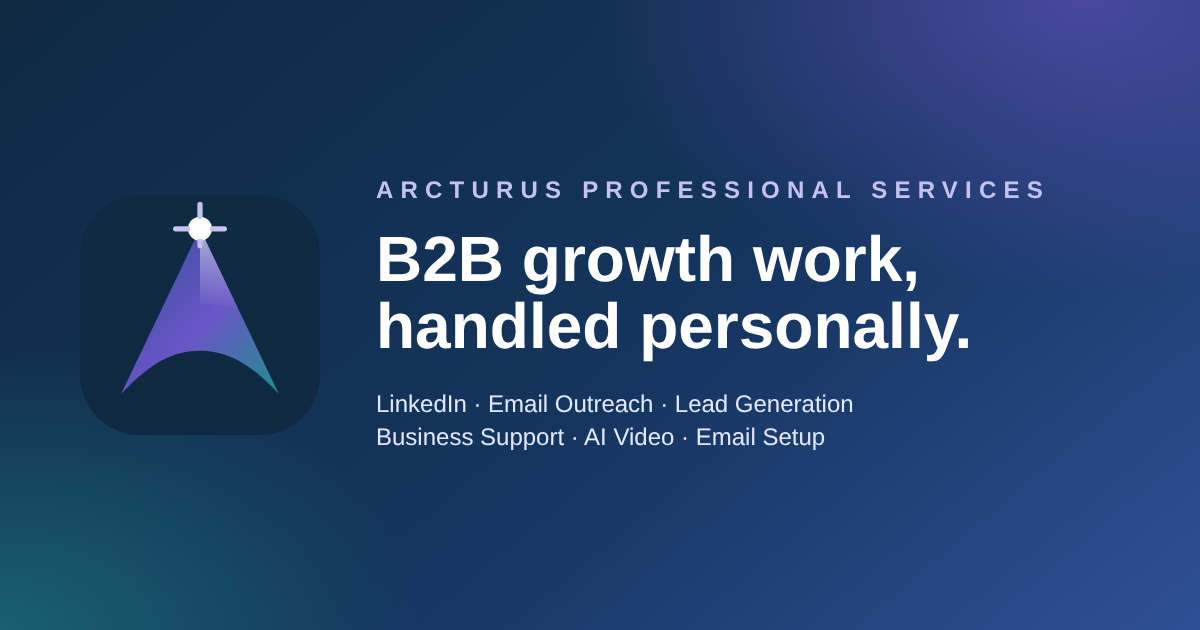
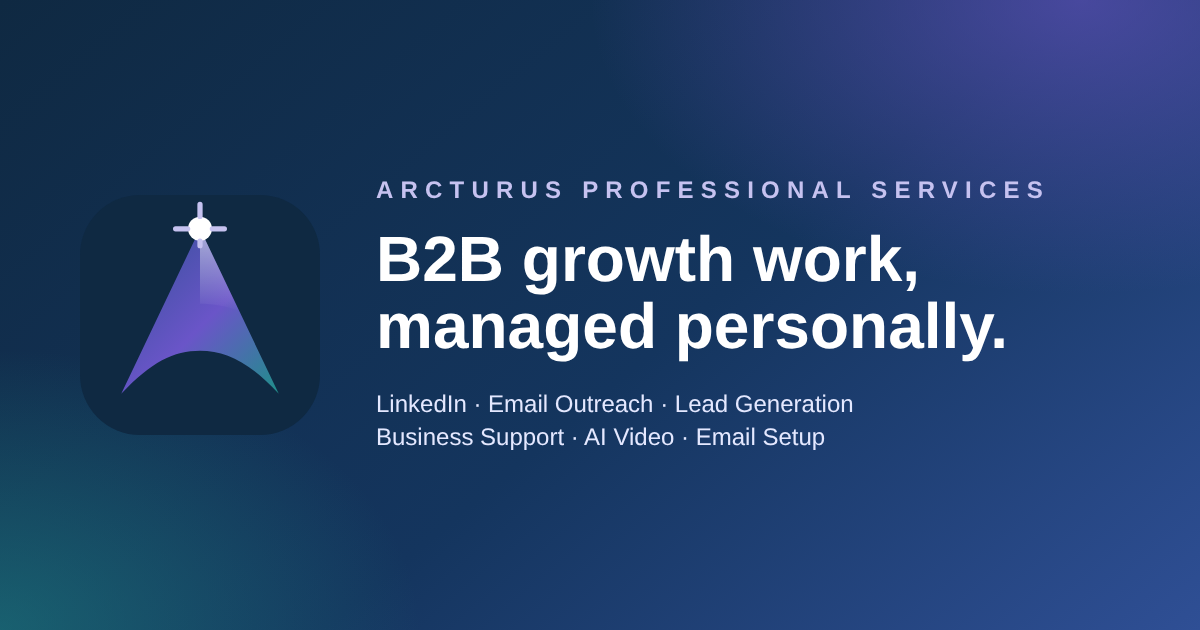
Remove portrait photo; footer ARCTURUS always fits (SVG), up/down scroll buttons, prefilled WhatsApp message, 'handled' -> 'managed', Hemicube header nav and service tabs
Claude-Session: https://claude.ai/code/session_014hs6KdVdhKz72U3njbSNzr

Changed region(s): [[0.3083, 0.4825, 0.8325, 0.573]]

diff --git a/frontend/src/pages/About.tsx b/frontend/src/pages/About.tsx
@@ -1,5 +1,5 @@
 import { ArrowUpRight, Check, FileText, LockKeyhole, Sparkles, X } from "lucide-react";
-import PortraitCard from "@/components/PortraitCard";
+import HeroShowcase from "@/components/HeroShowcase";
 import { Link } from "react-router-dom";
 import PageFrame from "@/components/PageFrame";
 import Seo from "@/components/Seo";
@@ -8,7 +8,7 @@ import AmbientScene from "@/components/AmbientScene";
 
 export default function About() {
   return <PageFrame><Seo path="/about" />
-    <section className="relative overflow-hidden border-b border-[#ddd8cd] about-hero-rich" data-testid="about-hero"><AmbientScene type="architecture" className="about-ambient-scene" /><div className="absolute right-[-7rem] top-12 size-80 rounded-full border border-[#4263aa]/20" aria-hidden="true" /><div className="mx-auto grid max-w-7xl gap-12 px-5 py-16 sm:px-8 sm:py-24 lg:grid-cols-[1.18fr_0.82fr] lg:items-end lg:gap-20 lg:px-10 lg:py-28"><div className="relative z-10 min-w-0"><p className="font-mono text-[10px] uppercase tracking-[0.2em] text-[#4263aa]" data-testid="about-eyebrow">Independent, direct, documented</p><h1 className="mt-5 break-words font-serif text-[2.4rem] leading-[1.08] text-[#0f172a] sm:text-6xl lg:text-7xl" data-testid="about-heading">About Khushboo Tomar, B2B outreach freelancer</h1><div className="mt-8 max-w-3xl space-y-5 text-lg leading-8 text-[#475569]" data-testid="about-intro"><p>I&apos;m Khushboo Tomar, an independent freelancer based in New Delhi. I run LinkedIn management, B2B email outreach and lead generation for businesses in Ireland, the UK and across Europe.</p><p>I work alone, so you always deal with the person doing the work. No account managers, no hand-offs, no outsourcing of core tasks.</p></div></div><div className="relative z-10" data-testid="about-personal-panel"><PortraitCard /></div></div></section>
+    <section className="relative overflow-hidden border-b border-[#ddd8cd] about-hero-rich" data-testid="about-hero"><AmbientScene type="architecture" className="about-ambient-scene" /><div className="absolute right-[-7rem] top-12 size-80 rounded-full border border-[#4263aa]/20" aria-hidden="true" /><div className="mx-auto grid max-w-7xl gap-12 px-5 py-16 sm:px-8 sm:py-24 lg:grid-cols-[1.18fr_0.82fr] lg:items-end lg:gap-20 lg:px-10 lg:py-28"><div className="relative z-10 min-w-0"><p className="font-mono text-[10px] uppercase tracking-[0.2em] text-[#4263aa]" data-testid="about-eyebrow">Independent, direct, documented</p><h1 className="mt-5 break-words font-serif text-[2.4rem] leading-[1.08] text-[#0f172a] sm:text-6xl lg:text-7xl" data-testid="about-heading">About Khushboo Tomar, B2B outreach freelancer</h1><div className="mt-8 max-w-3xl space-y-5 text-lg leading-8 text-[#475569]" data-testid="about-intro"><p>I&apos;m Khushboo Tomar, an independent freelancer based in New Delhi. I run LinkedIn management, B2B email outreach and lead generation for businesses in Ireland, the UK and across Europe.</p><p>I work alone, so you always deal with the person doing the work. No account managers, no hand-offs, no outsourcing of core tasks.</p></div></div><div className="relative z-10" data-testid="about-personal-panel"><HeroShowcase kicker="Solo freelancer" index="03 / 06" title="Khushboo Tomar" subtitle="Independent solo freelancer behind Arcturus Professional Services · New Delhi" slug="email-outreach" chips={["12+ years B2B","UK · Ireland · Europe","One point of contact"]} /></div></div></section>
 
     <section className="mx-auto max-w-7xl px-5 py-14 sm:px-8 lg:px-10" data-testid="about-facts">
       <div className="grid gap-3 sm:grid-cols-2 lg:grid-cols-4">
@@ -38,7 +38,7 @@ export default function About() {
   <ol className="arc-profile-timeline">
     <li><b>2014</b><span>Started in email marketing</span></li>
     <li><b>Growth</b><span>B2B outreach, lead research and sales support</span></li>
-    <li><b>Today</b><span>Six focused services, handled personally</span></li>
+    <li><b>Today</b><span>Six focused services, managed personally</span></li>
   </ol>
   <div className="arc-profile-stats"><div><b>12+</b><small>years experience</small></div><div><b>06</b><small>services</small></div><div><b>01</b><small>point of contact</small></div></div>
 </div><div className="self-center"><p className="font-mono text-[10px] uppercase tracking-[0.2em] text-[#765b9a]">Experience</p><h2 className="mt-4 font-serif text-4xl leading-tight text-[#0f172a] sm:text-5xl" data-testid="about-background-heading">My background</h2><p className="mt-7 text-base leading-8 text-[#475569]" data-testid="about-background-copy">I started my career in 2014 in email marketing and have spent over twelve years in B2B outreach, lead research, sales support and email deliverability. I&apos;ve worked closely with UK businesses, including recruitment firms, sales consultancies and financial services companies.</p><div className="mt-9 grid grid-cols-2 gap-3"><div className="rounded-2xl bg-[#ece8f4] p-5"><p className="font-highlight text-3xl text-[#0f2942]">12+</p><p className="mt-2 text-xs leading-5 text-[#64748b]">years of focused B2B experience</p></div><div className="rounded-2xl bg-[#dcebe8] p-5"><p className="font-highlight text-3xl text-[#0f2942]">2014</p><p className="mt-2 text-xs leading-5 text-[#64748b]">the year I started in email marketing</p></div></div></div></section>
@@ -67,7 +67,7 @@ export default function About() {
       </div>
     </section>
 
-    <section className="bg-[#f1eee6]" data-testid="about-services-section"><div className="mx-auto max-w-7xl px-5 py-20 sm:px-8 sm:py-24 lg:px-10"><div className="grid gap-10 lg:grid-cols-[0.58fr_1fr] lg:gap-20"><div><p className="font-mono text-[10px] uppercase tracking-[0.2em] text-[#4263aa]">Specialist support</p><h2 className="mt-4 font-serif text-4xl text-[#0f172a] sm:text-5xl" data-testid="about-services-heading">What I do</h2><p className="mt-6 max-w-sm text-base leading-7 text-[#64748b]">Six clearly priced services, each handled directly and documented in writing.</p></div><div className="grid gap-3 sm:grid-cols-2">{orderedServices.map((service, index) => <Link key={service.slug} to={`/services/${service.slug}`} className="premium-panel premium-lift rounded-2xl border border-[#ddd8cd] bg-[#fbf8f1] p-5" data-testid={`about-service-${service.slug}`}><div className="flex items-center justify-between gap-4"><span className="font-mono text-[9px] text-[#4263aa]">0{index + 1}</span><ArrowUpRight className="size-4 text-[#64748b]" /></div><h3 className="mt-5 font-serif text-xl text-[#0f2942]">{service.title}</h3><p className="mt-2 text-sm leading-6 text-[#64748b]">{["Profile, posting, outreach and nurture", "Setup, warm-up, campaigns and reporting", "Research, content, website support and admin", "Verified B2B contacts for your target market", "Branded short videos and reels", "Domain and DNS setup for better deliverability"][index]}</p></Link>)}</div></div></div></section>
+    <section className="bg-[#f1eee6]" data-testid="about-services-section"><div className="mx-auto max-w-7xl px-5 py-20 sm:px-8 sm:py-24 lg:px-10"><div className="grid gap-10 lg:grid-cols-[0.58fr_1fr] lg:gap-20"><div><p className="font-mono text-[10px] uppercase tracking-[0.2em] text-[#4263aa]">Specialist support</p><h2 className="mt-4 font-serif text-4xl text-[#0f172a] sm:text-5xl" data-testid="about-services-heading">What I do</h2><p className="mt-6 max-w-sm text-base leading-7 text-[#64748b]">Six clearly priced services, each managed directly and documented in writing.</p></div><div className="grid gap-3 sm:grid-cols-2">{orderedServices.map((service, index) => <Link key={service.slug} to={`/services/${service.slug}`} className="premium-panel premium-lift rounded-2xl border border-[#ddd8cd] bg-[#fbf8f1] p-5" data-testid={`about-service-${service.slug}`}><div className="flex items-center justify-between gap-4"><span className="font-mono text-[9px] text-[#4263aa]">0{index + 1}</span><ArrowUpRight className="size-4 text-[#64748b]" /></div><h3 className="mt-5 font-serif text-xl text-[#0f2942]">{service.title}</h3><p className="mt-2 text-sm leading-6 text-[#64748b]">{["Profile, posting, outreach and nurture", "Setup, warm-up, campaigns and reporting", "Research, content, website support and admin", "Verified B2B contacts for your target market", "Branded short videos and reels", "Domain and DNS setup for better deliverability"][index]}</p></Link>)}</div></div></div></section>
 
     <section className="mx-auto grid max-w-7xl gap-6 px-5 py-20 sm:px-8 sm:py-28 lg:grid-cols-2 lg:px-10" data-testid="about-work-compliance"><article className="rounded-[2rem] border border-[#d7dee9] bg-[#eef2ff] p-7 sm:p-10"><FileText className="size-7 text-[#4263aa]" /><h2 className="mt-6 font-serif text-4xl text-[#0f172a]" data-testid="about-work-heading">How I work</h2><p className="mt-6 text-base leading-8 text-[#475569]">Everything runs in writing, over WhatsApp, email or LinkedIn. I don&apos;t take calls. This keeps every decision, report and instruction documented, so nothing gets lost or misunderstood. You get clear written updates and regular reporting.</p><p className="mt-5 text-base leading-8 text-[#475569]">Payment is 50% in advance and 50% on delivery, and my pricing is flat and published on each service page.</p></article><article className="rounded-[2rem] border border-[#c9ddd8] bg-[#e8f2ef] p-7 sm:p-10"><LockKeyhole className="size-7 text-[#2c7a73]" /><h2 className="mt-6 font-serif text-4xl text-[#0f172a]" data-testid="about-compliance-heading">How I handle data and compliance</h2><p className="mt-6 text-base leading-8 text-[#475569]">I use a B2B-only, GDPR and PECR-aware approach. I work with business-professional data, handle unsubscribe requests properly, and keep your data confidential. You always keep control of your own accounts and settings. This is not legal advice, and each client remains responsible for confirming the lawful basis and requirements that apply to their activity.</p></article></section>
 

diff --git a/frontend/public/seo-report.html b/frontend/public/seo-report.html
@@ -1,6 +1,6 @@
-<!doctype html><html lang="en"><head><meta charset="utf-8"><meta name="viewport" content="width=device-width,initial-scale=1"><meta name="robots" content="noindex,follow"><meta name="theme-color" content="#0f2942"><title>Technical SEO Report | Arcturus</title><style>*{box-sizing:border-box}body{margin:0;background:radial-gradient(circle at 8% 6%,rgba(92,112,202,.19),transparent 30rem),radial-gradient(circle at 90% 14%,rgba(125,95,182,.16),transparent 28rem),linear-gradient(160deg,#fffdf8,#f0eef8 55%,#e9f3f0);color:#0f2942;font:15px/1.55 system-ui,sans-serif;min-height:100vh}main{max-width:1500px;margin:auto;padding:64px 24px 84px}h1{font-size:clamp(2.2rem,5vw,4.6rem);line-height:1.02;letter-spacing:-.05em;margin:8px 0 14px;max-width:850px}p{color:#526177}.summary{display:grid;grid-template-columns:repeat(auto-fit,minmax(180px,1fr));gap:14px;margin:34px 0}.card{background:rgba(255,255,255,.72);border:1px solid rgba(255,255,255,.85);border-radius:24px;padding:22px;box-shadow:0 24px 55px -40px #0f2942;backdrop-filter:blur(16px)}.card:nth-child(2){background:rgba(229,225,249,.74)}.card:nth-child(3){background:rgba(224,241,237,.78)}.card strong{display:block;font-size:1.8rem;letter-spacing:-.04em}.table-wrap{overflow:auto;background:rgba(255,255,255,.76);border:1px solid rgba(255,255,255,.9);border-radius:26px;box-shadow:0 34px 75px -48px #0f2942;backdrop-filter:blur(18px)}table{border-collapse:collapse;min-width:1300px;width:100%}th,td{padding:15px;text-align:left;vertical-align:top;border-bottom:1px solid #e9e6ef}th{background:linear-gradient(110deg,#0b1c31,#183e66);color:#fff;font-size:12px}td{font-size:13px}.status{display:inline-block;padding:4px 9px;border-radius:999px}.good{background:#e0f1ed;color:#176153}.bad{background:#fff0ed;color:#9b3327}a{color:#3159a4}@media(max-width:640px){main{padding:42px 18px 70px}}</style></head><body><main><p>Arcturus Professional Services</p><h1>Technical SEO checklist and report</h1><p>Generated automatically from <code>seo.config.json</code>. Last generated 2026-10-07.</p><div class="summary"><div class="card"><strong>21</strong>Pages in sitemap</div><div class="card"><strong>0</strong>Missing SEO items</div><div class="card"><strong>Valid</strong>Sitemap status</div><div class="card"><strong>Allow</strong>Robots status</div></div><div class="table-wrap"><table><thead><tr><th>Page</th><th>SEO title</th><th>Meta description</th><th>H1</th><th>Canonical</th><th>Indexability</th><th>Schema</th><th>Missing items</th></tr></thead><tbody><tr><td><strong>/</strong></td><td>B2B LinkedIn &amp; Email Outreach Freelancer | Arcturus</td><td>Independent freelancer for UK and Irish businesses providing LinkedIn management, email outreach, lead generation, business support, email setup and AI content.</td><td>B2B growth work, handled personally.</td><td><a href="https://arcturusprofessional.com/">https://arcturusprofessional.com/</a></td><td><span class="status good">Indexable</span></td><td>ProfessionalService, Person, WebSite, WebPage</td><td><span class="status good">Complete</span></td></tr>
+<!doctype html><html lang="en"><head><meta charset="utf-8"><meta name="viewport" content="width=device-width,initial-scale=1"><meta name="robots" content="noindex,follow"><meta name="theme-color" content="#0f2942"><title>Technical SEO Report | Arcturus</title><style>*{box-sizing:border-box}body{margin:0;background:radial-gradient(circle at 8% 6%,rgba(92,112,202,.19),transparent 30rem),radial-gradient(circle at 90% 14%,rgba(125,95,182,.16),transparent 28rem),linear-gradient(160deg,#fffdf8,#f0eef8 55%,#e9f3f0);color:#0f2942;font:15px/1.55 system-ui,sans-serif;min-height:100vh}main{max-width:1500px;margin:auto;padding:64px 24px 84px}h1{font-size:clamp(2.2rem,5vw,4.6rem);line-height:1.02;letter-spacing:-.05em;margin:8px 0 14px;max-width:850px}p{color:#526177}.summary{display:grid;grid-template-columns:repeat(auto-fit,minmax(180px,1fr));gap:14px;margin:34px 0}.card{background:rgba(255,255,255,.72);border:1px solid rgba(255,255,255,.85);border-radius:24px;padding:22px;box-shadow:0 24px 55px -40px #0f2942;backdrop-filter:blur(16px)}.card:nth-child(2){background:rgba(229,225,249,.74)}.card:nth-child(3){background:rgba(224,241,237,.78)}.card strong{display:block;font-size:1.8rem;letter-spacing:-.04em}.table-wrap{overflow:auto;background:rgba(255,255,255,.76);border:1px solid rgba(255,255,255,.9);border-radius:26px;box-shadow:0 34px 75px -48px #0f2942;backdrop-filter:blur(18px)}table{border-collapse:collapse;min-width:1300px;width:100%}th,td{padding:15px;text-align:left;vertical-align:top;border-bottom:1px solid #e9e6ef}th{background:linear-gradient(110deg,#0b1c31,#183e66);color:#fff;font-size:12px}td{font-size:13px}.status{display:inline-block;padding:4px 9px;border-radius:999px}.good{background:#e0f1ed;color:#176153}.bad{background:#fff0ed;color:#9b3327}a{color:#3159a4}@media(max-width:640px){main{padding:42px 18px 70px}}</style></head><body><main><p>Arcturus Professional Services</p><h1>Technical SEO checklist and report</h1><p>Generated automatically from <code>seo.config.json</code>. Last generated 2026-10-07.</p><div class="summary"><div class="card"><strong>21</strong>Pages in sitemap</div><div class="card"><strong>0</strong>Missing SEO items</div><div class="card"><strong>Valid</strong>Sitemap status</div><div class="card"><strong>Allow</strong>Robots status</div></div><div class="table-wrap"><table><thead><tr><th>Page</th><th>SEO title</th><th>Meta description</th><th>H1</th><th>Canonical</th><th>Indexability</th><th>Schema</th><th>Missing items</th></tr></thead><tbody><tr><td><strong>/</strong></td><td>B2B LinkedIn &amp; Email Outreach Freelancer | Arcturus</td><td>Independent freelancer for UK and Irish businesses providing LinkedIn management, email outreach, lead generation, business support, email setup and AI content.</td><td>B2B growth work, managed personally.</td><td><a href="https://arcturusprofessional.com/">https://arcturusprofessional.com/</a></td><td><span class="status good">Indexable</span></td><td>ProfessionalService, Person, WebSite, WebPage</td><td><span class="status good">Complete</span></td></tr>
 <tr><td><strong>/services</strong></td><td>B2B Outreach &amp; Business Support Services | Arcturus</td><td>Explore six B2B services: LinkedIn management, email outreach, lead generation, email setup, business support and AI video creation for growing teams.</td><td>Practical B2B support, without the agency layer.</td><td><a href="https://arcturusprofessional.com/services">https://arcturusprofessional.com/services</a></td><td><span class="status good">Indexable</span></td><td>CollectionPage, ItemList, ProfessionalService</td><td><span class="status good">Complete</span></td></tr>
-<tr><td><strong>/services/linkedin-management</strong></td><td>LinkedIn Management Services for Businesses | Arcturus</td><td>LinkedIn management services for UK and Irish businesses: profile optimisation, content, targeted outreach, follow-ups and reporting, handled by Khushboo.</td><td>LinkedIn Management Services</td><td><a href="https://arcturusprofessional.com/services/linkedin-management">https://arcturusprofessional.com/services/linkedin-management</a></td><td><span class="status good">Indexable</span></td><td>Service, FAQPage, BreadcrumbList</td><td><span class="status good">Complete</span></td></tr>
+<tr><td><strong>/services/linkedin-management</strong></td><td>LinkedIn Management Services for Businesses | Arcturus</td><td>LinkedIn management services for UK and Irish businesses: profile optimisation, content, targeted outreach, follow-ups and reporting, managed by Khushboo.</td><td>LinkedIn Management Services</td><td><a href="https://arcturusprofessional.com/services/linkedin-management">https://arcturusprofessional.com/services/linkedin-management</a></td><td><span class="status good">Indexable</span></td><td>Service, FAQPage, BreadcrumbList</td><td><span class="status good">Complete</span></td></tr>
 <tr><td><strong>/services/email-outreach</strong></td><td>B2B Email Outreach Service | €450/month</td><td>GDPR and PECR-aware B2B cold email campaigns with proper warm-up and reporting for UK and Irish businesses. €450/month. Includes unsubscribe handling too.</td><td>Email Outreach</td><td><a href="https://arcturusprofessional.com/services/email-outreach">https://arcturusprofessional.com/services/email-outreach</a></td><td><span class="status good">Indexable</span></td><td>Service, FAQPage, BreadcrumbList</td><td><span class="status good">Complete</span></td></tr>
 <tr><td><strong>/services/business-support</strong></td><td>Virtual Business Support Freelancer | €12/hour</td><td>Reliable remote business support for founders and small teams: research, admin, website support and AI-assisted content writing. €12/hour. Written updates.</td><td>Business Support</td><td><a href="https://arcturusprofessional.com/services/business-support">https://arcturusprofessional.com/services/business-support</a></td><td><span class="status good">Indexable</span></td><td>Service, FAQPage, BreadcrumbList</td><td><span class="status good">Complete</span></td></tr>
 <tr><td><strong>/services/lead-generation</strong></td><td>B2B Lead Generation Service | €0.80 per Contact</td><td>Verified B2B contact research for UK and Irish markets, built with Sales Navigator and transparent data sources. €0.80 per verified contact. Sources explained.</td><td>Lead Generation</td><td><a href="https://arcturusprofessional.com/services/lead-generation">https://arcturusprofessional.com/services/lead-generation</a></td><td><span class="status good">Indexable</span></td><td>Service, FAQPage, BreadcrumbList</td><td><span class="status good">Complete</span></td></tr>

diff --git a/frontend/src/pages/Services.tsx b/frontend/src/pages/Services.tsx
@@ -12,7 +12,7 @@ const panelColours = ["bg-[#eef2ff]", "bg-white", "bg-[#e8f2ef]", "bg-[#ece8f4]"
 export default function Services() {
   return <PageFrame><Seo path="/services" />
     <section className="relative overflow-hidden border-b border-[#ddd8cd] services-hero-rich" data-testid="services-hero">
-      <AmbientScene type="architecture" className="services-ambient-scene" /><div className="absolute -right-20 top-10 size-72 rounded-full border border-[#765b9a]/20" aria-hidden="true" /><div className="mx-auto max-w-7xl px-5 py-16 sm:px-8 sm:py-24 lg:px-10 lg:py-28"><p className="font-mono text-[10px] uppercase tracking-[0.2em] text-[#4263aa]" data-testid="services-eyebrow">Six focused services</p><h1 className="mt-5 max-w-5xl break-words font-serif text-[2.4rem] leading-[1.08] text-[#0f172a] sm:text-6xl lg:text-7xl" data-testid="services-heading">Practical B2B support, without the agency layer.</h1><p className="mt-7 max-w-2xl text-lg leading-8 text-[#475569]" data-testid="services-intro">Choose one service or combine a few that naturally work together. Every scope is agreed in writing, every price is published, and the work is handled directly by Khushboo.</p></div></section>
+      <AmbientScene type="architecture" className="services-ambient-scene" /><div className="absolute -right-20 top-10 size-72 rounded-full border border-[#765b9a]/20" aria-hidden="true" /><div className="mx-auto max-w-7xl px-5 py-16 sm:px-8 sm:py-24 lg:px-10 lg:py-28"><p className="font-mono text-[10px] uppercase tracking-[0.2em] text-[#4263aa]" data-testid="services-eyebrow">Six focused services</p><h1 className="mt-5 max-w-5xl break-words font-serif text-[2.4rem] leading-[1.08] text-[#0f172a] sm:text-6xl lg:text-7xl" data-testid="services-heading">Practical B2B support, without the agency layer.</h1><p className="mt-7 max-w-2xl text-lg leading-8 text-[#475569]" data-testid="services-intro">Choose one service or combine a few that naturally work together. Every scope is agreed in writing, every price is published, and the work is managed directly by Khushboo.</p></div></section>
     <section className="mx-auto max-w-7xl px-5 py-16 sm:px-8 sm:py-20 lg:px-10" data-testid="services-fit-section"><ServiceFitGuide /></section>
     <section className="mx-auto max-w-7xl px-5 pb-20 sm:px-8 sm:pb-28 lg:px-10" data-testid="services-catalog"><div className="grid gap-5 md:grid-cols-2">{orderedServices.map((service, index) => <Link key={service.slug} to={`/services/${service.slug}`} className={`premium-panel premium-lift group flex min-h-[340px] flex-col justify-between rounded-[2rem] border border-[#ddd8cd] p-7 sm:p-9 ${panelColours[index]}`} data-testid={`services-overview-card-${service.slug}`} data-service-slug={service.slug} data-service-name={service.title}><IsoIllustration slug={service.slug} className="iso-card" /><div className="flex items-start justify-between"><span className="font-mono text-[10px] tracking-[0.18em] text-[#4263aa]" data-testid={`services-overview-number-${service.slug}`}>0{index + 1}</span><ArrowUpRight className="size-5 text-[#64748b] transition-[color,transform] duration-200 group-hover:-translate-y-0.5 group-hover:translate-x-0.5 group-hover:text-[#0f2942]" /></div><div><p className="font-mono text-[9px] uppercase tracking-[0.16em] text-[#64748b]" data-testid={`services-overview-eyebrow-${service.slug}`}>{service.eyebrow}</p><h2 className="mt-3 break-words font-serif text-3xl text-[#0f172a]" data-testid={`services-overview-title-${service.slug}`}>{service.title}</h2><p className="mt-4 max-w-md text-sm leading-6 text-[#64748b]" data-testid={`services-overview-description-${service.slug}`}>{service.description}</p><div className="mt-7 flex flex-col gap-4 border-t border-[#0f2942]/10 pt-5 sm:flex-row sm:items-center sm:justify-between"><span className="font-highlight text-lg text-[#0f2942]" data-testid={`services-overview-price-${service.slug}`}>{service.price}</span><span className="inline-flex items-center gap-2 text-sm font-semibold text-[#0f2942]">View service <MoveRight className="size-4 transition-transform duration-200 group-hover:translate-x-1" /></span></div></div></Link>)}</div></section>
     <section className="bg-[#0f2942] text-white" data-testid="services-start-section"><div className="mx-auto grid max-w-7xl gap-10 px-5 py-20 sm:px-8 sm:py-24 lg:grid-cols-[1fr_0.8fr] lg:items-end lg:px-10"><div><p className="font-mono text-[10px] uppercase tracking-[0.2em] text-[#9bc8c0]" data-testid="services-start-eyebrow">Where to start</p><h2 className="mt-4 max-w-2xl break-words font-serif text-4xl leading-tight text-white sm:text-5xl" data-testid="services-start-heading">Start with the problem, not the perfect label.</h2></div><div><p className="max-w-md text-base leading-7 text-[#cbd5e1]" data-testid="services-start-copy">Not sure which service fits? Send a short written brief. I will tell you where I would start and what I would leave out.</p><Link to="/contact" className="mt-6 inline-flex items-center gap-2 rounded-md bg-white px-5 py-3 text-sm font-semibold text-[#0f2942] transition-[background-color,transform] duration-200 hover:-translate-y-0.5 hover:bg-[#dce6ff]" data-testid="services-contact-link">Contact me <ArrowUpRight className="size-4" /></Link></div></div></section>

diff --git a/frontend/src/arc-brand.css b/frontend/src/arc-brand.css
@@ -49,24 +49,22 @@ main h1 em.arc-em-in{animation:arcEmIn .9s cubic-bezier(.2,.8,.2,1) forwards,arc
 .luxury-footer-word,.luxury-art-word,.arc-logo-text strong,.luxury-footer-kicker{font-family:"Hemicube Head","Hemicube",sans-serif !important}
 .luxury-footer-word{letter-spacing:.04em !important;font-weight:400 !important}
 
-/* Portrait card */
-.arc-portrait{position:relative;margin:0 auto;width:min(100%,440px);padding:26px 18px 0}
-.arc-portrait-frame{position:relative;overflow:hidden;border-radius:220px 220px 36px 36px;aspect-ratio:660/790;background:radial-gradient(320px 260px at 70% 18%,rgba(127,227,216,.55),transparent 70%),radial-gradient(360px 300px at 15% 90%,rgba(198,194,240,.6),transparent 70%),linear-gradient(160deg,#0f2942,#2f4f95 55%,#6a55c8);box-shadow:0 50px 90px -40px rgba(15,41,66,.75),inset 0 1px 0 rgba(255,255,255,.3)}
-.arc-portrait-frame::before{content:"";position:absolute;inset:0;background-image:radial-gradient(rgba(255,255,255,.14) 1px,transparent 1.3px);background-size:20px 20px;mask-image:linear-gradient(180deg,#000,transparent 60%)}
-.arc-portrait-glow{position:absolute;left:50%;top:22%;width:70%;aspect-ratio:1;transform:translateX(-50%);border-radius:50%;background:radial-gradient(circle,rgba(255,255,255,.35),transparent 65%);animation:arcPulseGlow 6s ease-in-out infinite}
-@keyframes arcPulseGlow{0%,100%{opacity:.7;transform:translateX(-50%) scale(1)}50%{opacity:1;transform:translateX(-50%) scale(1.08)}}
-.arc-portrait-frame img{position:absolute;left:0;right:0;bottom:0;width:100%;height:auto;object-fit:contain;filter:drop-shadow(0 20px 30px rgba(0,0,0,.35)) saturate(1.05) contrast(1.04);transition:transform .8s cubic-bezier(.2,.8,.2,1)}
-.arc-portrait:hover .arc-portrait-frame img{transform:scale(1.03) translateY(-4px)}
-.arc-portrait-ring{position:absolute;inset:0 0 40px;border-radius:240px 240px 44px 44px;border:1.5px dashed rgba(106,85,200,.45);animation:arcRingFloat 8s ease-in-out infinite}
-@keyframes arcRingFloat{0%,100%{transform:translate(0,0) rotate(0)}50%{transform:translate(8px,-8px) rotate(1.2deg)}}
-.arc-portrait-tag{position:relative;z-index:3;margin:-56px 14px 0;padding:16px 20px;border-radius:22px;background:rgba(255,255,255,.92);backdrop-filter:blur(10px);box-shadow:0 24px 40px -24px rgba(15,41,66,.6);border:1px solid rgba(106,85,200,.25);display:flex;flex-direction:column}
-.arc-portrait-tag strong{font-family:var(--arc-head);font-size:1.45rem;color:#0f2942;letter-spacing:.01em}
-.arc-portrait-tag span{font-size:.95rem;font-weight:700;color:#2f4f95;margin-top:2px}
-.arc-portrait-chip-a{left:-18px;top:34%}
-.arc-portrait-chip-b{right:-14px;top:12%;animation-delay:1.4s}
-.arc-portrait.is-compact{width:min(100%,400px)}
-.luxury-about-visual{background:none !important;box-shadow:none !important;min-height:0 !important;padding:0 !important;overflow:visible !important}
-.luxury-about-visual::before,.luxury-about-visual::after{content:none !important}
-@media (max-width:860px){.arc-portrait-chip-a{left:-4px}.arc-portrait-chip-b{right:-4px}.arc-portrait-tag strong{font-size:1.25rem}}
-@media (prefers-reduced-motion:reduce){.arc-portrait-ring,.arc-portrait-glow{animation:none}}
-.arc-portrait-frame img{width:94%;left:3%;right:auto;max-width:none}
+/* Header nav + service tabs in Hemicube */
+.luxury-nav-link,.service-tab-title,.luxury-header-cta,.luxury-mobile-nav a,.luxury-mobile-cta{font-family:"Hemicube Head","Hemicube",sans-serif !important;letter-spacing:.02em !important}
+.luxury-nav-link{font-size:.95rem !important}
+.service-tab-title{font-size:.9rem !important}
+
+/* Footer watermark: always fits the full word */
+.luxury-footer-word{font-size:clamp(3rem,13.2vw,15rem) !important;letter-spacing:0 !important;line-height:.95 !important;transform:none !important;padding:10px 16px 0 !important;overflow:hidden;max-width:100vw;box-sizing:border-box;text-align:center}
+@media (max-width:768px){.luxury-footer-word{font-size:12.5vw !important}}
+
+/* Up / down buttons */
+.arc-scroll-buttons{position:fixed;left:18px;bottom:22px;z-index:70;display:flex;flex-direction:column;gap:8px}
+.arc-scroll-buttons button{width:46px;height:46px;border-radius:50%;display:grid;place-items:center;color:#fff;background:linear-gradient(135deg,#14355e,#6a55c8);border:1px solid rgba(255,255,255,.25);box-shadow:0 14px 28px -12px rgba(15,41,66,.7);cursor:pointer;transition:opacity .35s,transform .35s}
+.arc-scroll-buttons button:hover{transform:translateY(-3px) scale(1.06)}
+.arc-scroll-buttons button.is-hidden{opacity:0;transform:scale(.6);pointer-events:none}
+@media (max-width:768px){.arc-scroll-buttons{left:12px;bottom:14px}.arc-scroll-buttons button{width:40px;height:40px}}
+.luxury-footer-word{font-size:inherit !important;padding:8px clamp(16px,3vw,48px) 0 !important;animation:none !important;background:none !important;-webkit-text-fill-color:initial !important}
+.luxury-footer-word svg{display:block;width:100%;height:auto;overflow:visible}
+.luxury-footer-word text{font-family:"Hemicube Head","Hemicube",sans-serif;font-size:150px;fill:url(#none);fill:rgba(198,194,240,.16);animation:arcWordGlow 8s ease-in-out infinite}
+@keyframes arcWordGlow{0%,100%{fill:rgba(198,194,240,.12)}50%{fill:rgba(198,194,240,.26)}}

diff --git a/frontend/src/pages/ServiceDetail.tsx b/frontend/src/pages/ServiceDetail.tsx
@@ -2,12 +2,11 @@ import { ArrowUpRight, Check, ChevronRight, MessageSquareText } from "lucide-rea
 import { Link, useParams } from "react-router-dom";
 import PageFrame from "@/components/PageFrame";
 import Seo from "@/components/Seo";
-import { CONTACT_EMAIL, getService, servicePageExtras } from "@/lib/site";
+import { CONTACT_EMAIL, getService, servicePageExtras, WHATSAPP_LINK } from "@/lib/site";
 import IsoIllustration from "@/components/IsoIllustration";
 import AmbientScene from "@/components/AmbientScene";
 import { resources } from "@/lib/resources";
 
-const WHATSAPP_URL = "https://wa.me/919911284362";
 
 export default function ServiceDetail() {
   const { slug } = useParams();
@@ -103,7 +102,7 @@ export default function ServiceDetail() {
           </div>
         </section>
 
-      <section className="mx-5 mb-20 rounded-[2rem] bg-[#0f2942] px-6 py-12 text-white sm:mx-8 sm:mb-28 sm:px-10 lg:mx-auto lg:max-w-7xl lg:px-14" data-testid="service-bottom-cta"><MessageSquareText className="size-6 text-[#9bc8c0]" /><p className="mt-5 font-mono text-[10px] uppercase tracking-[0.18em] text-[#9bc8c0]">Written enquiries only</p><div className="mt-4 flex flex-col justify-between gap-8 lg:flex-row lg:items-end"><h2 className="max-w-2xl font-serif text-4xl leading-tight text-white sm:text-5xl" data-testid="service-bottom-cta-heading">Tell me what you need to move forward.</h2><div className="flex flex-wrap gap-3"><Link to="/contact" className="inline-flex h-12 items-center gap-2 rounded-md bg-white px-5 text-sm font-semibold text-[#0f2942] hover:bg-[#dce6ff]" data-testid="service-contact-form-link">Use the contact form <ArrowUpRight className="size-4" /></Link><a href={`mailto:${CONTACT_EMAIL}`} className="inline-flex h-12 items-center rounded-md border border-white/30 px-5 text-sm font-semibold text-white hover:bg-white/10" data-testid="service-email-link">Email</a><a href={WHATSAPP_URL} target="_blank" rel="noreferrer" className="inline-flex h-12 items-center rounded-md border border-white/30 px-5 text-sm font-semibold text-white hover:bg-white/10" data-testid="service-whatsapp-link">WhatsApp</a></div></div></section>
+      <section className="mx-5 mb-20 rounded-[2rem] bg-[#0f2942] px-6 py-12 text-white sm:mx-8 sm:mb-28 sm:px-10 lg:mx-auto lg:max-w-7xl lg:px-14" data-testid="service-bottom-cta"><MessageSquareText className="size-6 text-[#9bc8c0]" /><p className="mt-5 font-mono text-[10px] uppercase tracking-[0.18em] text-[#9bc8c0]">Written enquiries only</p><div className="mt-4 flex flex-col justify-between gap-8 lg:flex-row lg:items-end"><h2 className="max-w-2xl font-serif text-4xl leading-tight text-white sm:text-5xl" data-testid="service-bottom-cta-heading">Tell me what you need to move forward.</h2><div className="flex flex-wrap gap-3"><Link to="/contact" className="inline-flex h-12 items-center gap-2 rounded-md bg-white px-5 text-sm font-semibold text-[#0f2942] hover:bg-[#dce6ff]" data-testid="service-contact-form-link">Use the contact form <ArrowUpRight className="size-4" /></Link><a href={`mailto:${CONTACT_EMAIL}`} className="inline-flex h-12 items-center rounded-md border border-white/30 px-5 text-sm font-semibold text-white hover:bg-white/10" data-testid="service-email-link">Email</a><a href={WHATSAPP_LINK + encodeURIComponent(service.title)} target="_blank" rel="noreferrer" className="inline-flex h-12 items-center rounded-md border border-white/30 px-5 text-sm font-semibold text-white hover:bg-white/10" data-testid="service-whatsapp-link">WhatsApp</a></div></div></section>
     </PageFrame>
   );
 }

diff --git a/frontend/src/components/SiteFooter.tsx b/frontend/src/components/SiteFooter.tsx
@@ -1,7 +1,7 @@
 import { ArrowUpRight, Clock3, MapPin, MessageCircle, Mail, ShieldCheck } from "lucide-react";
 import { FaInstagram, FaLinkedinIn, FaWhatsapp } from "react-icons/fa6";
 import { Link } from "react-router-dom";
-import { CONTACT_EMAIL, orderedServices } from "@/lib/site";
+import { CONTACT_EMAIL, orderedServices, WHATSAPP_LINK } from "@/lib/site";
 import BrandLogo from "@/components/BrandLogo";
 
 
@@ -24,12 +24,12 @@ export default function SiteFooter() {
           <Link to="/" className="luxury-footer-logo">
             <BrandLogo size={60} light />
           </Link>
-          <p>Independent B2B support, handled personally.</p>
+          <p>Independent B2B support, managed personally.</p>
           <span>Based in New Delhi, working directly with businesses across the UK, Ireland and Europe.</span><span className="footer-experience-line">12+ years across email marketing, B2B outreach, lead research and sales support.</span>
           <div className="luxury-footer-socials footer-socials-large">
             <a href="https://www.linkedin.com/in/khushboo-tomar" target="_blank" rel="noreferrer" aria-label="LinkedIn"><FaLinkedinIn /></a>
             <a href="https://www.instagram.com/arcturusprofessional" target="_blank" rel="noreferrer" aria-label="Instagram"><FaInstagram /></a>
-            <a href="https://wa.me/919911284362" target="_blank" rel="noreferrer" aria-label="WhatsApp"><FaWhatsapp /></a>
+            <a href={WHATSAPP_LINK} target="_blank" rel="noreferrer" aria-label="WhatsApp"><FaWhatsapp /></a>
           </div>
         </div>
 
@@ -56,7 +56,7 @@ export default function SiteFooter() {
         <div className="luxury-footer-column footer-contact-column">
           <p className="luxury-footer-label">Contact</p>
           <a href={"mailto:" + CONTACT_EMAIL}><Mail size={14} />{CONTACT_EMAIL}</a>
-          <a href="https://wa.me/919911284362" target="_blank" rel="noreferrer"><MessageCircle size={14} />+91 99112 84362</a>
+          <a href={WHATSAPP_LINK} target="_blank" rel="noreferrer"><MessageCircle size={14} />+91 99112 84362</a>
           <span><MapPin size={14} />New Delhi, India</span>
           <span><Clock3 size={14} />UK & Irish working hours · Monday–Friday</span>
           <span><ShieldCheck size={14} />B2B · Confidential · Written</span>
@@ -86,7 +86,7 @@ export default function SiteFooter() {
 
       <div className="luxury-shell footer-top-row"><a href="#main-content" className="footer-to-top">Back to top <ArrowUpRight size={13} /></a></div>
 
-      <div className="luxury-footer-word">ARCTURUS</div>
+      <div className="luxury-footer-word" aria-hidden="true"><svg viewBox="0 0 1000 150" preserveAspectRatio="xMidYMid meet"><text x="500" y="128" textAnchor="middle" textLength="980" lengthAdjust="spacingAndGlyphs">ARCTURUS</text></svg></div>
 
       <div className="luxury-footer-bottom">
         <div className="luxury-shell luxury-footer-bottom-inner">

diff --git a/frontend/src/pages/Home.tsx b/frontend/src/pages/Home.tsx
@@ -1,5 +1,4 @@
 import { ArrowRight, Check, Mail } from "lucide-react";
-import PortraitCard from "@/components/PortraitCard";
 import HeroShowcase from "@/components/HeroShowcase";
 import IsoIllustration from "@/components/IsoIllustration";
 import { Link } from "react-router-dom";
@@ -35,7 +34,7 @@ export default function Home() {
             <p className="luxury-eyebrow"><span>01</span> Independent freelancer · New Delhi</p>
             <h1 data-testid="home-hero-heading">
               B2B growth work,
-              <em> handled personally.</em>
+              <em> managed personally.</em>
             </h1>
             <p className="luxury-hero-lead" data-testid="home-hero-description">
               LinkedIn management, email outreach, lead generation, business support, email setup and AI content for founders and small teams across the UK, Ireland and Europe. Managed directly by Khushboo.
@@ -52,7 +51,7 @@ export default function Home() {
           </Reveal>
 
           <Reveal className="luxury-hero-art-wrap" delay={150}>
-            <HeroShowcase kicker="Arcturus" index="01 / 06" title="Arcturus Professional Services" subtitle="B2B growth work, handled personally by Khushboo Tomar." slug="linkedin-management" chips={["LinkedIn","Email outreach","Lead generation","Business support","AI video","Email setup"]} note="A direct, considered way to keep the work behind your business moving." />
+            <HeroShowcase kicker="Arcturus" index="01 / 06" title="Arcturus Professional Services" subtitle="B2B growth work, managed personally by Khushboo Tomar." slug="linkedin-management" chips={["LinkedIn","Email outreach","Lead generation","Business support","AI video","Email setup"]} note="A direct, considered way to keep the work behind your business moving." />
           </Reveal>
         </div>
       </section>
@@ -203,7 +202,11 @@ export default function Home() {
       <section className="luxury-about-section">
         <div className="luxury-shell luxury-about-grid">
           <Reveal className="luxury-about-visual">
-            <PortraitCard compact />
+            <div className="luxury-about-monogram">K</div>
+            <div className="luxury-about-meta">
+              <span>KHUSHBOO</span>
+              <small>Independent Freelancer · New Delhi</small>
+            </div>
           </Reveal>
           <Reveal delay={110}>
             <p className="luxury-section-kicker">About me</p>

diff --git a/frontend/src/pages/Contact.tsx b/frontend/src/pages/Contact.tsx
@@ -5,7 +5,7 @@ import ContactForm from "@/components/ContactForm";
 import PageFrame from "@/components/PageFrame";
 import Reveal from "@/components/Reveal";
 import Seo from "@/components/Seo";
-import { CONTACT_EMAIL, getContactHref } from "@/lib/site";
+import { CONTACT_EMAIL, getContactHref, WHATSAPP_LINK } from "@/lib/site";
 import AmbientScene from "@/components/AmbientScene";
 
 export default function Contact() {
@@ -47,7 +47,7 @@ export default function Contact() {
             <h2 className="break-words font-serif text-3xl text-white">Contact details</h2>
             <div className="mt-7 space-y-5 text-sm">
               <a href={"mailto:" + CONTACT_EMAIL} className="flex gap-3 text-[#dce6ff] transition-colors duration-200 hover:text-white" data-testid="contact-email-link"><Mail className="size-5 shrink-0" /><span className="break-all">{CONTACT_EMAIL}</span></a>
-              <a href="https://wa.me/919911284362" target="_blank" rel="noreferrer" className="flex gap-3 text-[#dce6ff] transition-colors duration-200 hover:text-white" data-testid="contact-whatsapp-link"><MessageCircle className="size-5 shrink-0" />+91 99112 84362</a>
+              <a href={WHATSAPP_LINK} target="_blank" rel="noreferrer" className="flex gap-3 text-[#dce6ff] transition-colors duration-200 hover:text-white" data-testid="contact-whatsapp-link"><MessageCircle className="size-5 shrink-0" />+91 99112 84362</a>
               <p className="flex gap-3 text-[#dce6ff]" data-testid="contact-location"><MapPin className="size-5 shrink-0" />New Delhi, India</p>
             </div>
             <a href={getContactHref()} className="mt-7 inline-flex items-center gap-2 rounded-md bg-white px-4 py-3 text-sm font-semibold text-[#0f2942] transition-[background-color,transform] duration-200 hover:-translate-y-0.5 hover:bg-[#dce6ff]" data-testid="contact-email-button">Open a prefilled email draft <ArrowUpRight className="size-4" /></a>

diff --git a/frontend/src/lib/resources.ts b/frontend/src/lib/resources.ts
@@ -81,7 +81,7 @@ export const resources: Resource[] = [
         heading: "What to expect from a managed service",
         paragraphs: [
           "LinkedIn is a relationship channel, so a sensible service should be measured over time rather than as a one-week sales promise. Good management creates a consistent presence, improves the quality of targeting and keeps follow-up from being forgotten.",
-          "At Arcturus, the LinkedIn management service is handled directly by Khushboo. The work includes profile management, professional content, targeted outreach, follow-ups, group engagement, company page setup where needed, Hootsuite scheduling and written performance reporting.",
+          "At Arcturus, the LinkedIn management service is managed directly by Khushboo. The work includes profile management, professional content, targeted outreach, follow-ups, group engagement, company page setup where needed, Hootsuite scheduling and written performance reporting.",
         ],
       },
       {
@@ -444,7 +444,7 @@ export const resources: Resource[] = [
         heading: "Keep the scope realistic",
         paragraphs: [
           "AI-generated short-form content is not the same thing as filming a commercial. There is still a need for review, prompt adjustment and approval, but the workflow is intentionally lightweight.",
-          "Arcturus provides the agreed 2-short-form-videos-per-day schedule, 7 days a week, at €400 per month, with Hootsuite scheduling handled as part of the agreed workflow.",
+          "Arcturus provides the agreed 2-short-form-videos-per-day schedule, 7 days a week, at €400 per month, with Hootsuite scheduling managed as part of the agreed workflow.",
         ],
       },
       {

diff --git a/frontend/src/components/ScrollButtons.tsx b/frontend/src/components/ScrollButtons.tsx
@@ -1,0 +1,29 @@
+import { ArrowDown, ArrowUp } from "lucide-react";
+import { useEffect, useState } from "react";
+
+// Floating up / down buttons: jump to top, or scroll one screen down (to the bottom when near it).
+export default function ScrollButtons() {
+  const [atTop, setAtTop] = useState(true);
+  const [atBottom, setAtBottom] = useState(false);
+
+  useEffect(() => {
+    const onScroll = () => {
+      const max = document.documentElement.scrollHeight - window.innerHeight;
+      setAtTop(window.scrollY < 200);
+      setAtBottom(window.scrollY > max - 200);
+    };
+    onScroll();
+    window.addEventListener("scroll", onScroll, { passive: true });
+    window.addEventListener("resize", onScroll);
+    return () => { window.removeEventListener("scroll", onScroll); window.removeEventListener("resize", onScroll); };
+  }, []);
+
+  const go = (top: number) => window.scrollTo({ top, behavior: "smooth" });
+
+  return (
+    <div className="arc-scroll-buttons" data-testid="scroll-buttons">
+      <button type="button" aria-label="Scroll to top" className={atTop ? "is-hidden" : ""} onClick={() => go(0)}><ArrowUp size={18} /></button>
+      <button type="button" aria-label="Scroll down" className={atBottom ? "is-hidden" : ""} onClick={() => go(window.scrollY + window.innerHeight * 0.85)}><ArrowDown size={18} /></button>
+    </div>
+  );
+}

diff --git a/frontend/src/pages/ResourceDetail.tsx b/frontend/src/pages/ResourceDetail.tsx
@@ -56,12 +56,12 @@ export default function ResourceDetail() {
             <div className="resource-sidebar-card">
               <p className="luxury-section-kicker">Related service</p>
               <h2>{relatedService?.title ?? "Arcturus service"}</h2>
-              <p>{relatedService?.description ?? "Direct, practical business support handled personally."}</p>
+              <p>{relatedService?.description ?? "Direct, practical business support managed personally."}</p>
               {relatedService ? <Link to={`/services/${relatedService.slug}`} className="luxury-button luxury-button-dark">View the service <ArrowRight size={16} /></Link> : null}
             </div>
             <div className="resource-sidebar-card resource-sidebar-dark">
               <MessageCircle size={19} />
-              <p>Need this work handled instead of added to your to-do list?</p>
+              <p>Need this work managed instead of added to your to-do list?</p>
               <Link to="/contact" className="luxury-button luxury-button-light">Start a written enquiry</Link>
             </div>
           </aside>

diff --git a/frontend/src/components/ContactDock.tsx b/frontend/src/components/ContactDock.tsx
@@ -1,9 +1,9 @@
 import { FaInstagram, FaLinkedinIn, FaWhatsapp } from "react-icons/fa6";
 import { MdOutlineEmail } from "react-icons/md";
-import { CONTACT_EMAIL, getContactHref } from "@/lib/site";
+import { CONTACT_EMAIL, getContactHref, WHATSAPP_LINK } from "@/lib/site";
 
 const contacts = [
-  { label: "WhatsApp", href: "https://wa.me/919911284362", icon: FaWhatsapp, colour: "bg-[#128c7e]", external: true, testId: "quick-contact-whatsapp" },
+  { label: "WhatsApp", href: WHATSAPP_LINK, icon: FaWhatsapp, colour: "bg-[#128c7e]", external: true, testId: "quick-contact-whatsapp" },
   { label: "Email", href: getContactHref(), icon: MdOutlineEmail, colour: "bg-[#0f2942]", external: false, testId: "quick-contact-email" },
   { label: "LinkedIn", href: "https://www.linkedin.com/in/khushboo-tomar", icon: FaLinkedinIn, colour: "bg-[#0a66c2]", external: true, testId: "quick-contact-linkedin" },
   { label: "Instagram", href: "https://www.instagram.com/arcturusprofessional", icon: FaInstagram, colour: "instagram-contact", external: true, testId: "quick-contact-instagram" },
